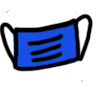
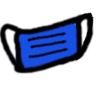
Fixed image convert so they display correctly

Changed region(s): [[0.0, 0.12, 0.96, 0.75], [0.81, 0.78, 0.84, 0.84], [0.06, 0.09, 0.09, 0.15]]

diff --git a/model.py b/model.py
@@ -15,7 +15,7 @@ class Model:
     """
     Updates the game based on Controller input.
     """
-    def __init__(self, num_tp = 5, num_sick_people = 14, num_masks = 4, num_eggs = 4):
+    def __init__(self, num_tp = 5, num_sick_people = 8, num_masks = 4, num_eggs = 3, num_guitars = 3, num_paint = 3):
         '''
         platform_list: list of each platform object to be used for finding where they are
         platform_locations: dictionary of each platforms corners format {'left_bound', 'right_bound', 'top_bound', 'bottom_bound'}
@@ -42,14 +42,14 @@ class Model:
         # set up asset folders
         game_folder = os.path.dirname(__file__)
         img_folder = os.path.join(game_folder, 'img')
-        player_img = pygame.image.load(os.path.join(img_folder, 'human.jpg')).convert()
-        tp_img = pygame.image.load(os.path.join(img_folder, 'tp.png')).convert()
-        sick_img = pygame.image.load(os.path.join(img_folder, 'sick.png')).convert()
-        egg_img = pygame.image.load(os.path.join(img_folder, 'eggnflour.png')).convert()
-        mask_img = pygame.image.load(os.path.join(img_folder, 'mask.png')).convert()
+        player_img = pygame.image.load(os.path.join(img_folder, 'human.jpg')).convert_alpha()
+        tp_img = pygame.image.load(os.path.join(img_folder, 'tp.png')).convert_alpha()
+        sick_img = pygame.image.load(os.path.join(img_folder, 'sick.png')).convert_alpha()
+        egg_img = pygame.image.load(os.path.join(img_folder, 'eggnflour2.png')).convert_alpha()
+        mask_img = pygame.image.load(os.path.join(img_folder, 'mask.png')).convert_alpha()
         ground_img = pygame.image.load(os.path.join(img_folder, 'ground.png')).convert()
-        guitar = pygame.image.load(os.path.join(img_folder, 'guitar.png')).convert()
-        paint = pygame.image.load(os.path.join(img_folder, 'paint.png')).convert()
+        guitar_img = pygame.image.load(os.path.join(img_folder, 'guitar.png')).convert_alpha()
+        paint_img = pygame.image.load(os.path.join(img_folder, 'paint.png')).convert_alpha()
         '''social = pygame.image.load(os.path.join(img_folder, 'social.png')).convert()
         ventilator_img = pygame.image.load(os.path.join(img_folder, 'ventilator.png')).convert()'''
         self.background_img = pygame.image.load(os.path.join(img_folder, 'background.jpg')).convert()
@@ -76,6 +76,10 @@ class Model:
             self.object_list.append(Object(self.player_character.change_health, 5, mask_img))
         for egg in range(num_eggs):
             self.object_list.append(Object(self.player_character.change_zest, 5, egg_img))
+        for paint in range(num_paint):
+            self.object_list.append(Object(self.player_character.change_zest, 5, paint_img))
+        for guitar in range(num_guitars):
+            self.object_list.append(Object(self.player_character.change_zest, 5, guitar_img))
         for object in self.object_list:
             self.all_sprites.add(object)
             self.object_sprites.add(object)
@@ -199,9 +203,10 @@ if __name__ == '__main__':
             model.run()
             for event in model.events:
                 if event.type == pygame.QUIT:
-                    pygame.quit()
                     game_loop= False
                     model.game_over = True
+                    end_screen = False
+                    pygame.quit()
             if model.game_over == True:#this was just added. we need to make this equal false when player dies of corona or boredom. havent done that yet.
                 health = 100
                 zest = 100
@@ -209,7 +214,9 @@ if __name__ == '__main__':
                 end_screen = True
                 for sprite in model.all_sprites:
                     sprite.restart()
-        model.end_screen()
+        print(end_screen)
+        if (end_screen):
+            model.end_screen()
         while end_screen == True:
             for event in pygame.event.get():
                 if event.type == pygame.QUIT:

diff --git a/constant_values.py b/constant_values.py
@@ -1,21 +1,21 @@
 import pygame
 
 #constants
-k_object_move_value = 1
-k_initial_jump_velocity = 45
-k_gravity = 2.5
+FPS = 60 # frames per second - try and do dynamically?
+k_object_move_value = 8
+k_initial_jump_velocity = 30
+k_gravity = 1
 k_max_health = 100
 k_max_zest = 100
 k_floor_offset = 200
 k_wall_offset = 150
 k_time_between_objects = .5
-k_time_between_boredom_drop = 1
+k_time_between_boredom_drop = 4
 k_boredom_drop_value = -5
 WIDTH_GW = 1024  # width of our game window
 HEIGHT_GW = 600 # height of our game window
-FPS = 30 # frames per second - try and do dynamically?
 BLACK = (0,0,0)
-PLAYER_ACC = 6
+PLAYER_ACC = 4
 PLAYER_FRICTION = -.5
 BLACK = (0,0,0)
 WHITE = (255, 255,255)
